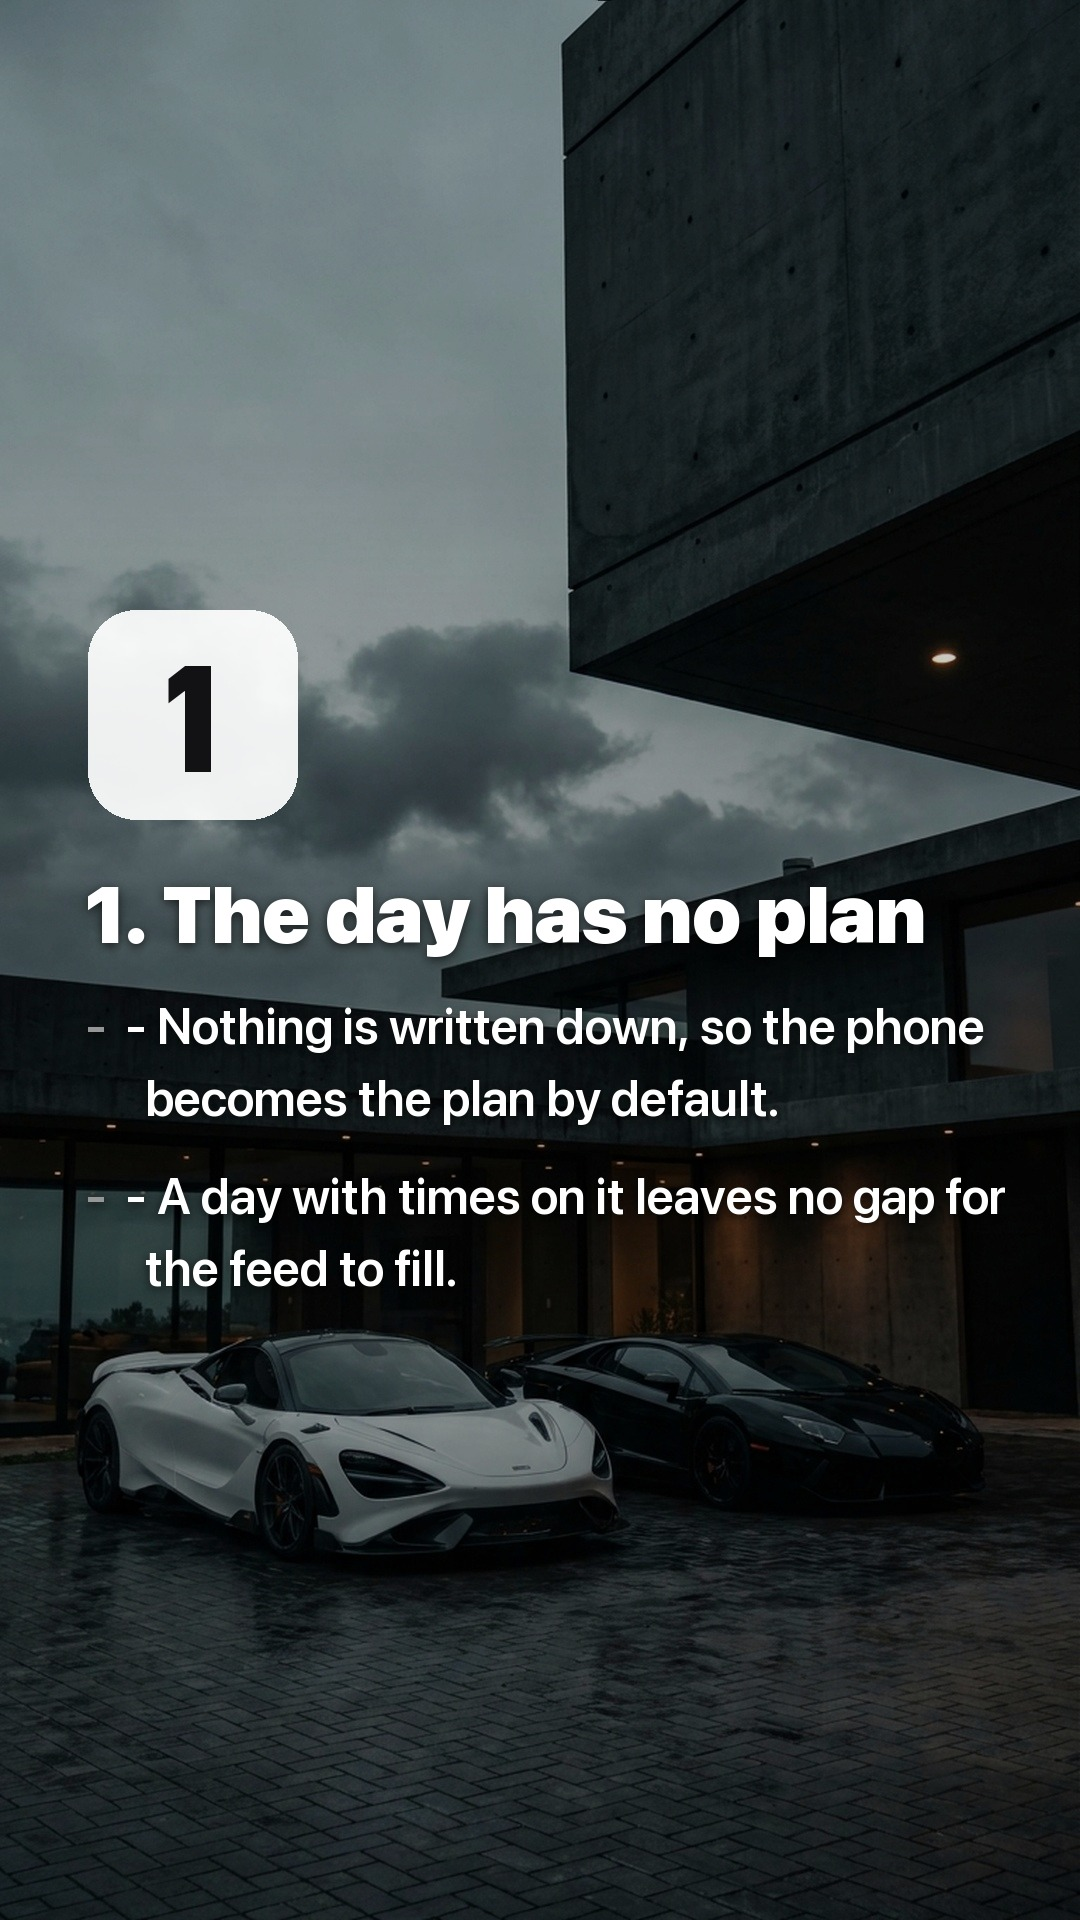
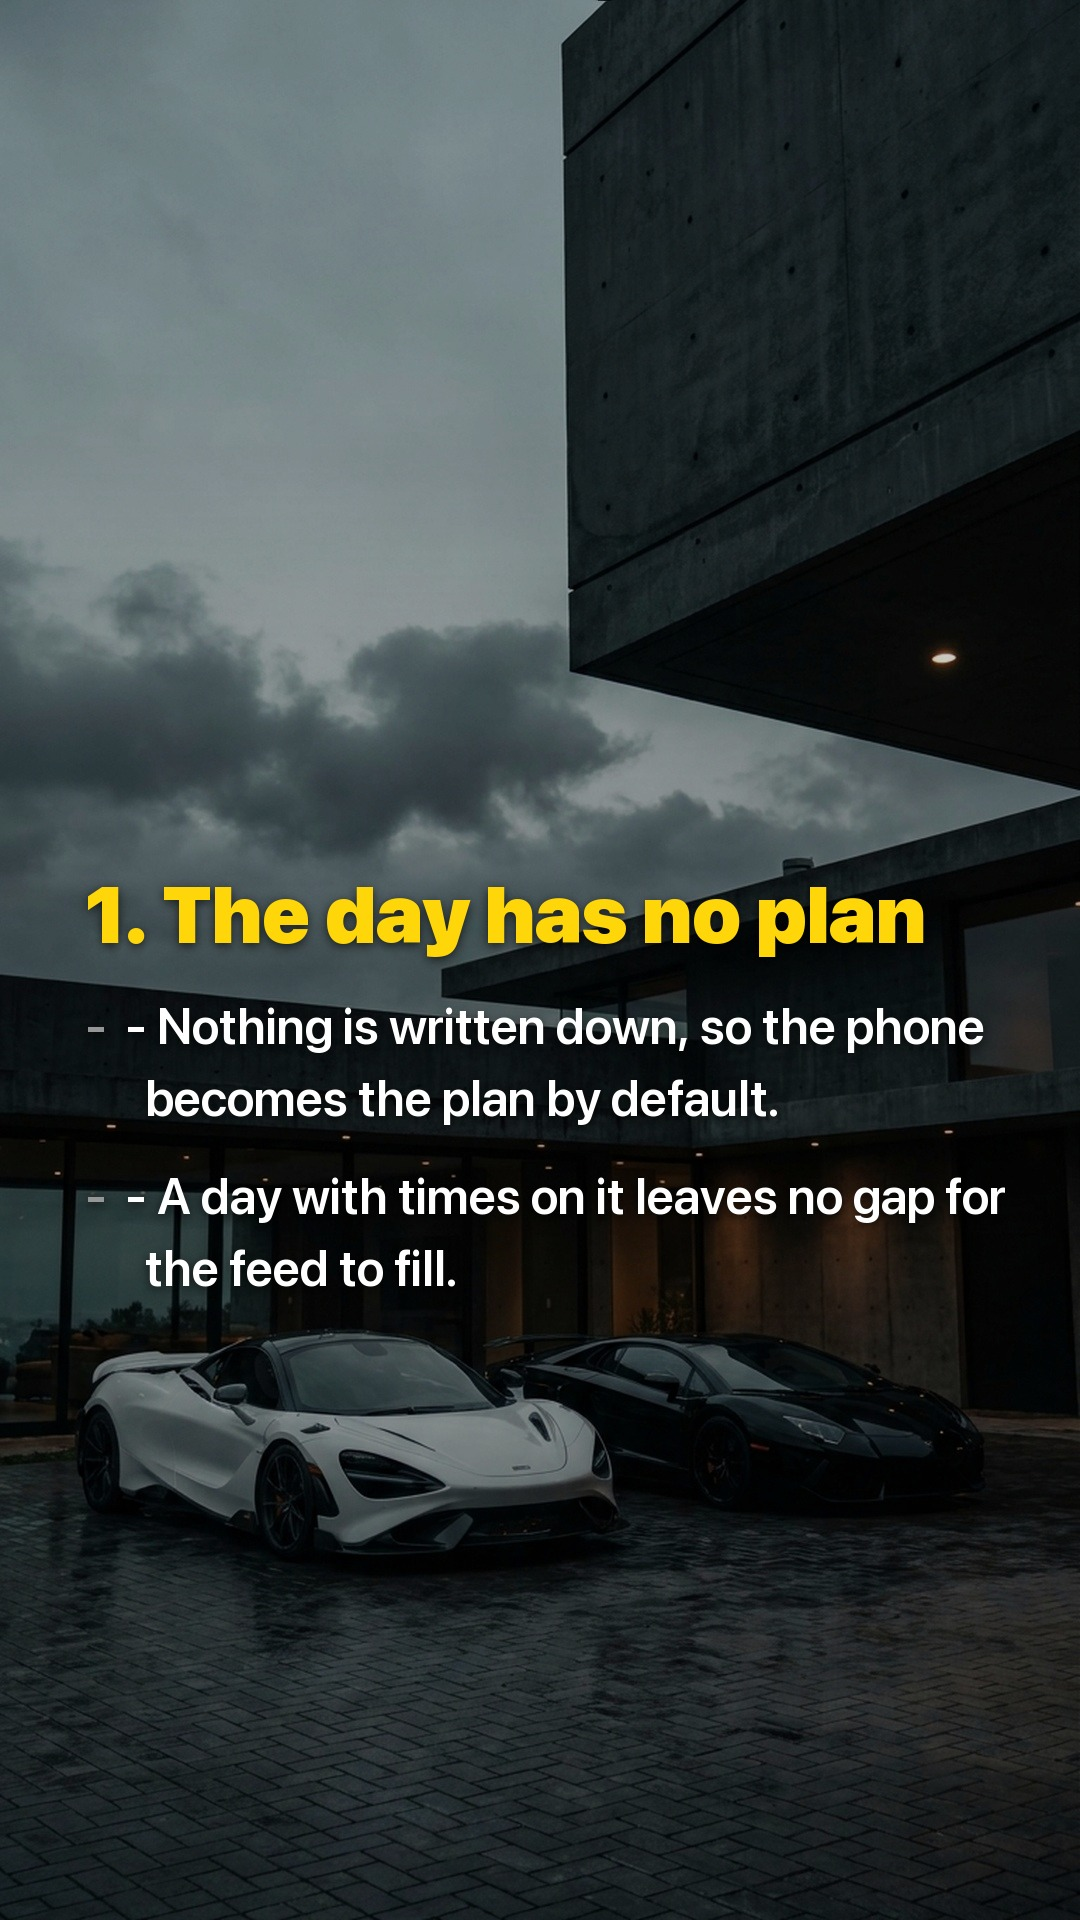
screentime-100h: drop the number squares, yellow titles, locked-comment CTA
Thinh's fix notes on the first render: the reason slides lose the numbered
badge (the number stays in the title) and the title itself carries the
highlight in yellow. The closer drops 'On the App Store' and gains the
comment-gated offer: comment "locked" for a free subscription, 50 spots.

rule_slide grows badge/title_fill and cta_slide grows store_line/promo, all
defaulted to the old behaviour so every other post rebuilds identically.
01.jpg verified byte-identical after the rebuild.

Changed region(s): [[0.0611, 0.3125, 0.8556, 0.5]]

diff --git a/tools/compose.py b/tools/compose.py
@@ -911,7 +911,8 @@ def app_slide(bg, icon, title, body_lines, out, grad=(0.85, 0.68, 300, 1250)):
     im.save(out, quality=92)
     print('wrote', out)
 
-def rule_slide(bg, number, title, body_lines, out, grad=(0.85, 0.68, 300, 1250)):
+def rule_slide(bg, number, title, body_lines, out, grad=(0.85, 0.68, 300, 1250),
+               badge=True, title_fill=WHITE):
     """A tool slide with a numbered badge where the app icon would be.
 
     Method-led pillars (discipline, screentime) have no app to show, and
@@ -920,24 +921,30 @@ def rule_slide(bg, number, title, body_lines, out, grad=(0.85, 0.68, 300, 1250))
     tools posts. This keeps the exact tools layout: same badge box, same
     title position, same dashed body, so a viewer moving between pillars
     sees one format.
+
+    `badge=False` drops the numbered square (the "N." stays in the title) and
+    `title_fill` recolours the title — Thinh asked for both on screentime-100h:
+    no squares, titles highlighted in a light colour. Defaults keep every
+    other post's rebuild pixel-identical.
     """
     im = base_photo(bg, grad)
     im = frame_for_band(im, 600, 1300)
     adaptive_scrim(im, 600, 1300)
 
-    # Badge in the icon slot: rounded square, big number, matching 210px box.
-    badge = Image.new('RGBA', (210, 210), (0, 0, 0, 0))
-    ImageDraw.Draw(badge).rounded_rectangle((0, 0, 209, 209), radius=48,
+    if badge:
+        # Badge in the icon slot: rounded square, big number, matching 210px box.
+        b = Image.new('RGBA', (210, 210), (0, 0, 0, 0))
+        ImageDraw.Draw(b).rounded_rectangle((0, 0, 209, 209), radius=48,
                                             fill=(255, 255, 255, 235))
-    bd = ImageDraw.Draw(badge)
-    nf = display_font(150, 'Compressed Black')
-    # anchor 'mm' already centres the glyph box; do not offset by the bbox too
-    bd.text((105, 105), str(number), font=nf, fill=(18, 18, 20), anchor='mm')
-    im.paste(badge, (88, 610), badge)
+        bd = ImageDraw.Draw(b)
+        nf = display_font(150, 'Compressed Black')
+        # anchor 'mm' already centres the glyph box; do not offset by the bbox too
+        bd.text((105, 105), str(number), font=nf, fill=(18, 18, 20), anchor='mm')
+        im.paste(b, (88, 610), b)
 
     assert_teaches(title, body_lines)
     tf = fit_font(title, 'Black', 84)
-    items = [(85, 865, title, tf, 'la', (255, 255, 255))]
+    items = [(85, 865, title, tf, 'la', title_fill)]
     body_f = font(50, 'Semibold')
     y = 995
     new_para = True
@@ -983,14 +990,17 @@ def closing_slide(bg, lines, out):
 
 
 
-def cta_slide(bg, out, subtitle='Planner and app blocker in one.'):
+def cta_slide(bg, out, subtitle='Planner and app blocker in one.',
+              store_line='On the App Store', promo=None):
     """Closing card for story posts: app icon, full store name, the pitch.
 
     `subtitle` takes a string or a list of lines — a post that has just named
     five reasons usually needs more than one to answer them.
 
-    No promo copy and never the word free; the promo CTA returns only when
-    the in-app Redeem flow ships (2.0.2)."""
+    `store_line=None` drops the yellow store line; `promo` (list of lines)
+    draws a comment-gated offer in its place. Promo copy is opt-in per post
+    and only on Thinh's explicit ask — he asked for the "locked" comment CTA
+    on screentime-100h. Defaults keep every other post's rebuild identical."""
     im = base_photo(bg, (0.72, 0.5, 300, 1250))
     im = frame_for_band(im, 600, 1300)
     adaptive_scrim(im, 560, 1340, target=88)
@@ -1009,7 +1019,14 @@ def cta_slide(bg, out, subtitle='Planner and app blocker in one.'):
     for ln in subs:
         items.append((540, y, ln, sub_f, 'ma', (235, 235, 235)))
         y += 62
-    items.append((540, y + 18, 'On the App Store', store_f, 'ma', (255, 214, 10)))
+    if store_line:
+        items.append((540, y + 18, store_line, store_f, 'ma', (255, 214, 10)))
+    if promo:
+        py = y + 30
+        promo_f = font(40, 'Bold')
+        for ln in promo:
+            items.append((540, py, ln, promo_f, 'ma', YELLOW))
+            py += 60
     draw_text_block(im, items)
     im.save(out, quality=92)
     print('wrote', out)

diff --git a/tools/gen-screentime-100h.py b/tools/gen-screentime-100h.py
@@ -26,10 +26,17 @@ which is why it is cta_slide and not a sixth reason.
 Backgrounds: the hook takes bg-h31, the darkest of the three lounge-night
 frames at band luma 19.7, which is the penthouse-at-night look and the one
 that holds a headline best. The rest avoid adjacent vibe repeats.
+
+Fix pass (2026-09-09), Thinh's notes on the first render: no numbered
+squares on the reason slides — the number lives in the title, and the title
+itself carries the highlight (yellow) instead. The closer swaps the store
+line for the comment-gated offer: comment "locked", free subscription, 50
+spots.
 """
 import os, sys
 sys.path.insert(0, '/Users/thinh/SIXSIX/arco-app/tools')
 import compose as c
+import hook_rules
 from compose import hook_slide, rule_slide, cta_slide, mark_hook_used, record_post_bgs
 
 TOPIC = 'screentime-100h'
@@ -76,12 +83,17 @@ REASONS = [
 CTA = ['Day planner, app blocker and task',
        'manager in one app.',
        'The only productivity app you need.']
+PROMO = ['Comment "locked" for a free subscription',
+         'Only 50 spots available']
 
 hook_slide(BGS[0], HOOK, f'{OUT}/01.jpg')
 for i, (title, body) in enumerate(REASONS):
-    rule_slide(BGS[i + 1], i + 1, title, body, f'{OUT}/0{i + 2}.jpg')
-cta_slide(BGS[6], f'{OUT}/07.jpg', CTA)
+    rule_slide(BGS[i + 1], i + 1, title, body, f'{OUT}/0{i + 2}.jpg',
+               badge=False, title_fill=c.YELLOW)
+cta_slide(BGS[6], f'{OUT}/07.jpg', CTA, store_line=None, promo=PROMO)
 
-mark_hook_used(HOOK, TOPIC)
+# A rebuild must not append a second history entry for the same outing.
+if not any(e.get('topic') == TOPIC for e in hook_rules.history()):
+    mark_hook_used(HOOK, TOPIC)
 record_post_bgs(TOPIC, BGS)
 print('done')
